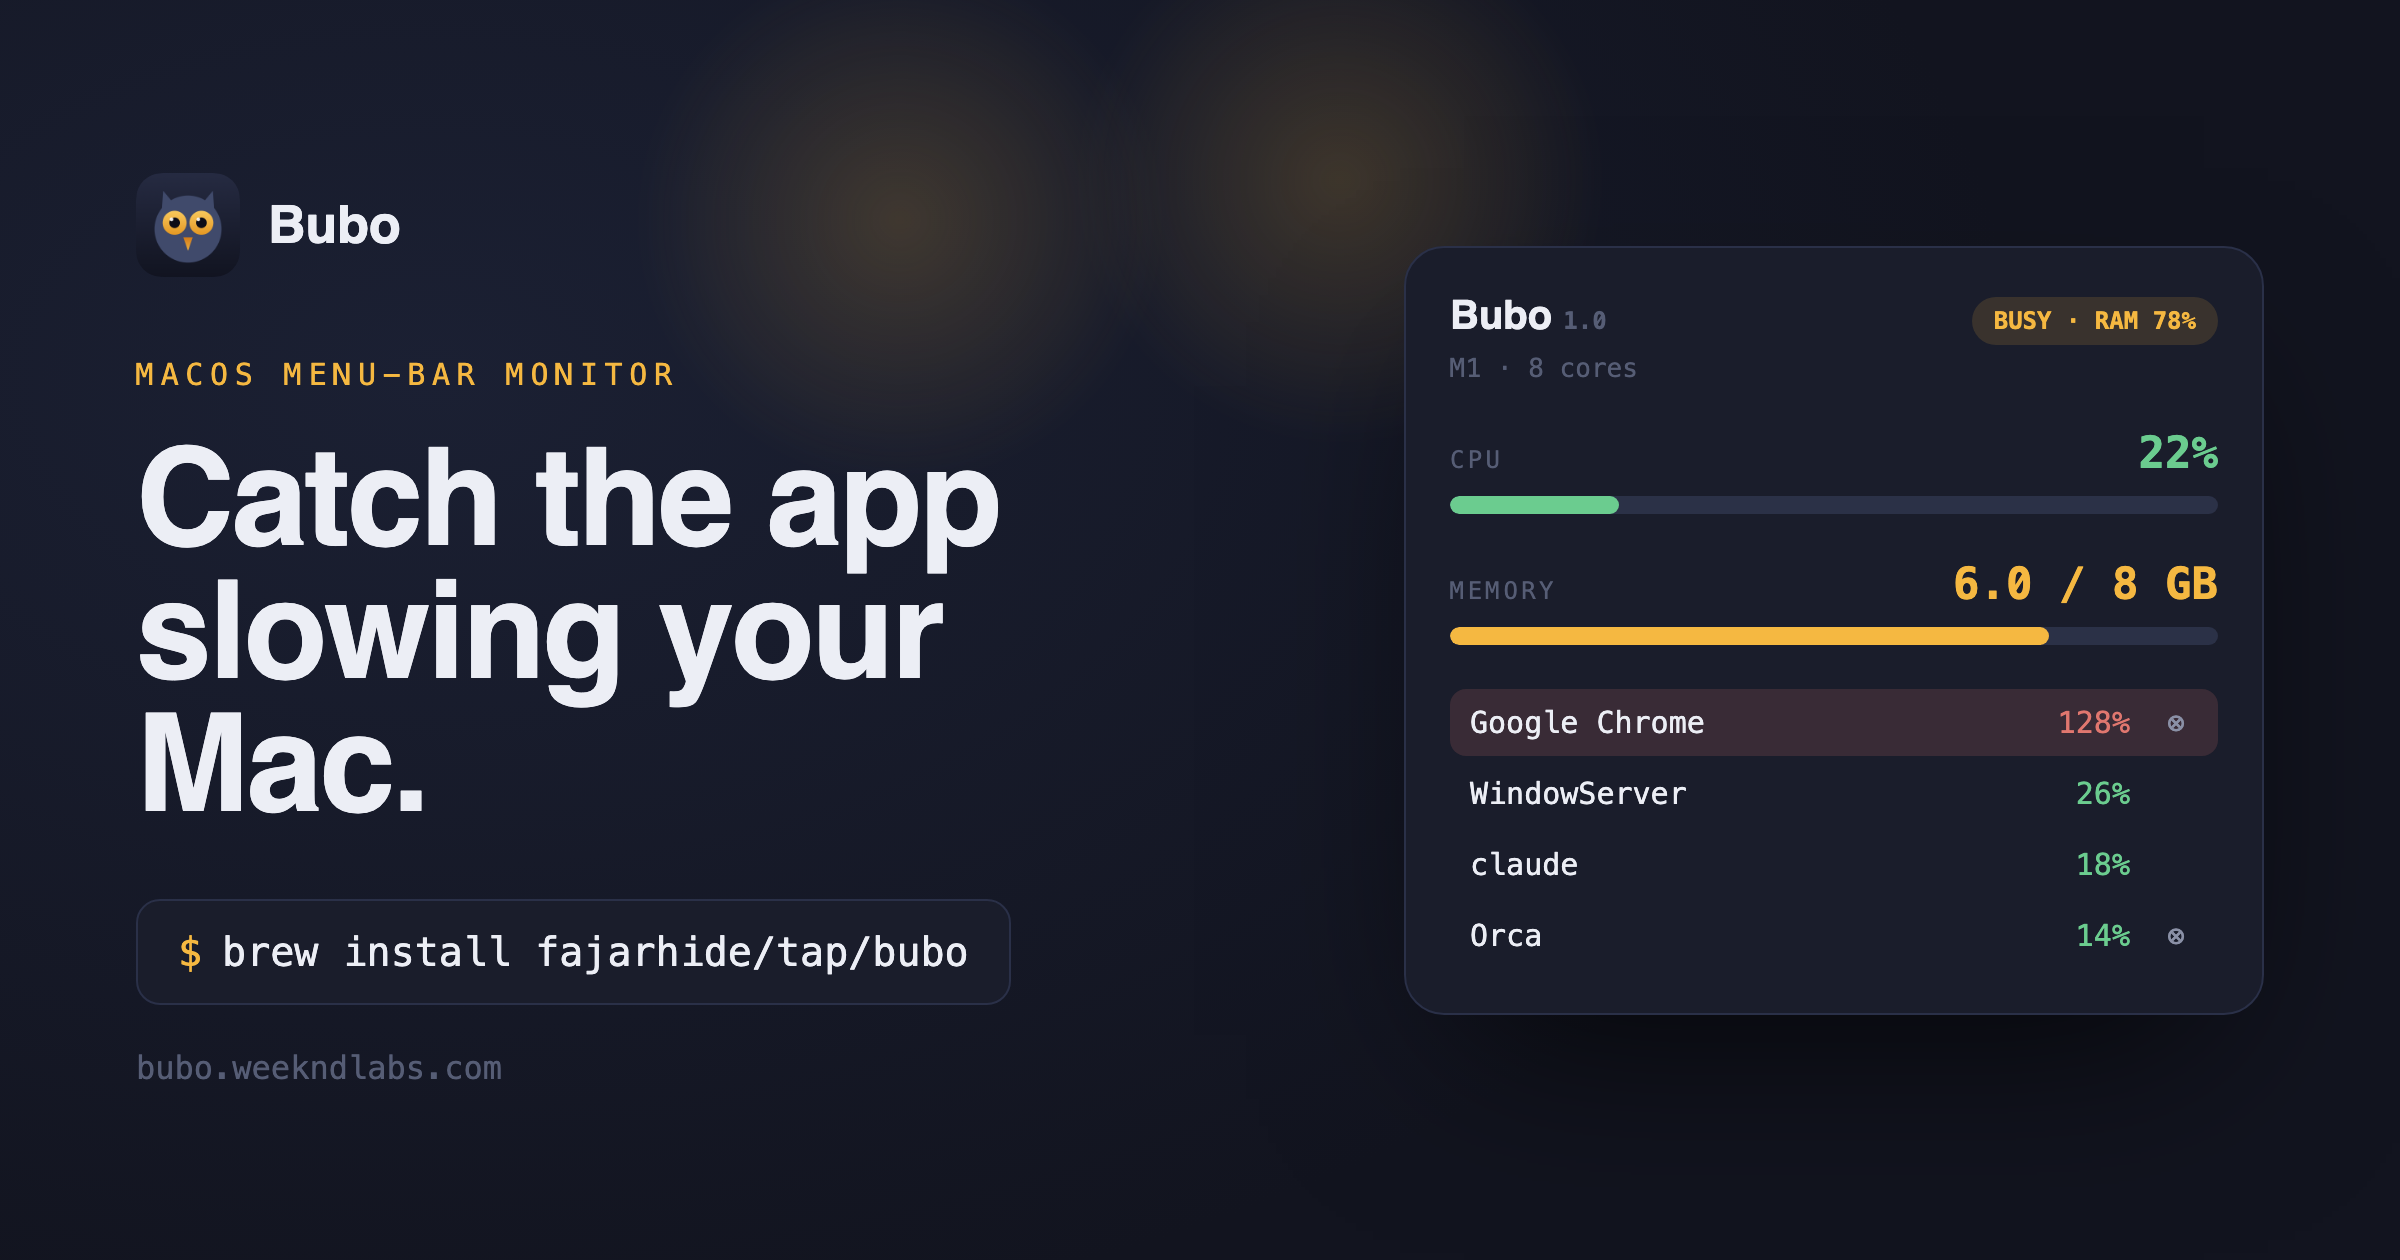
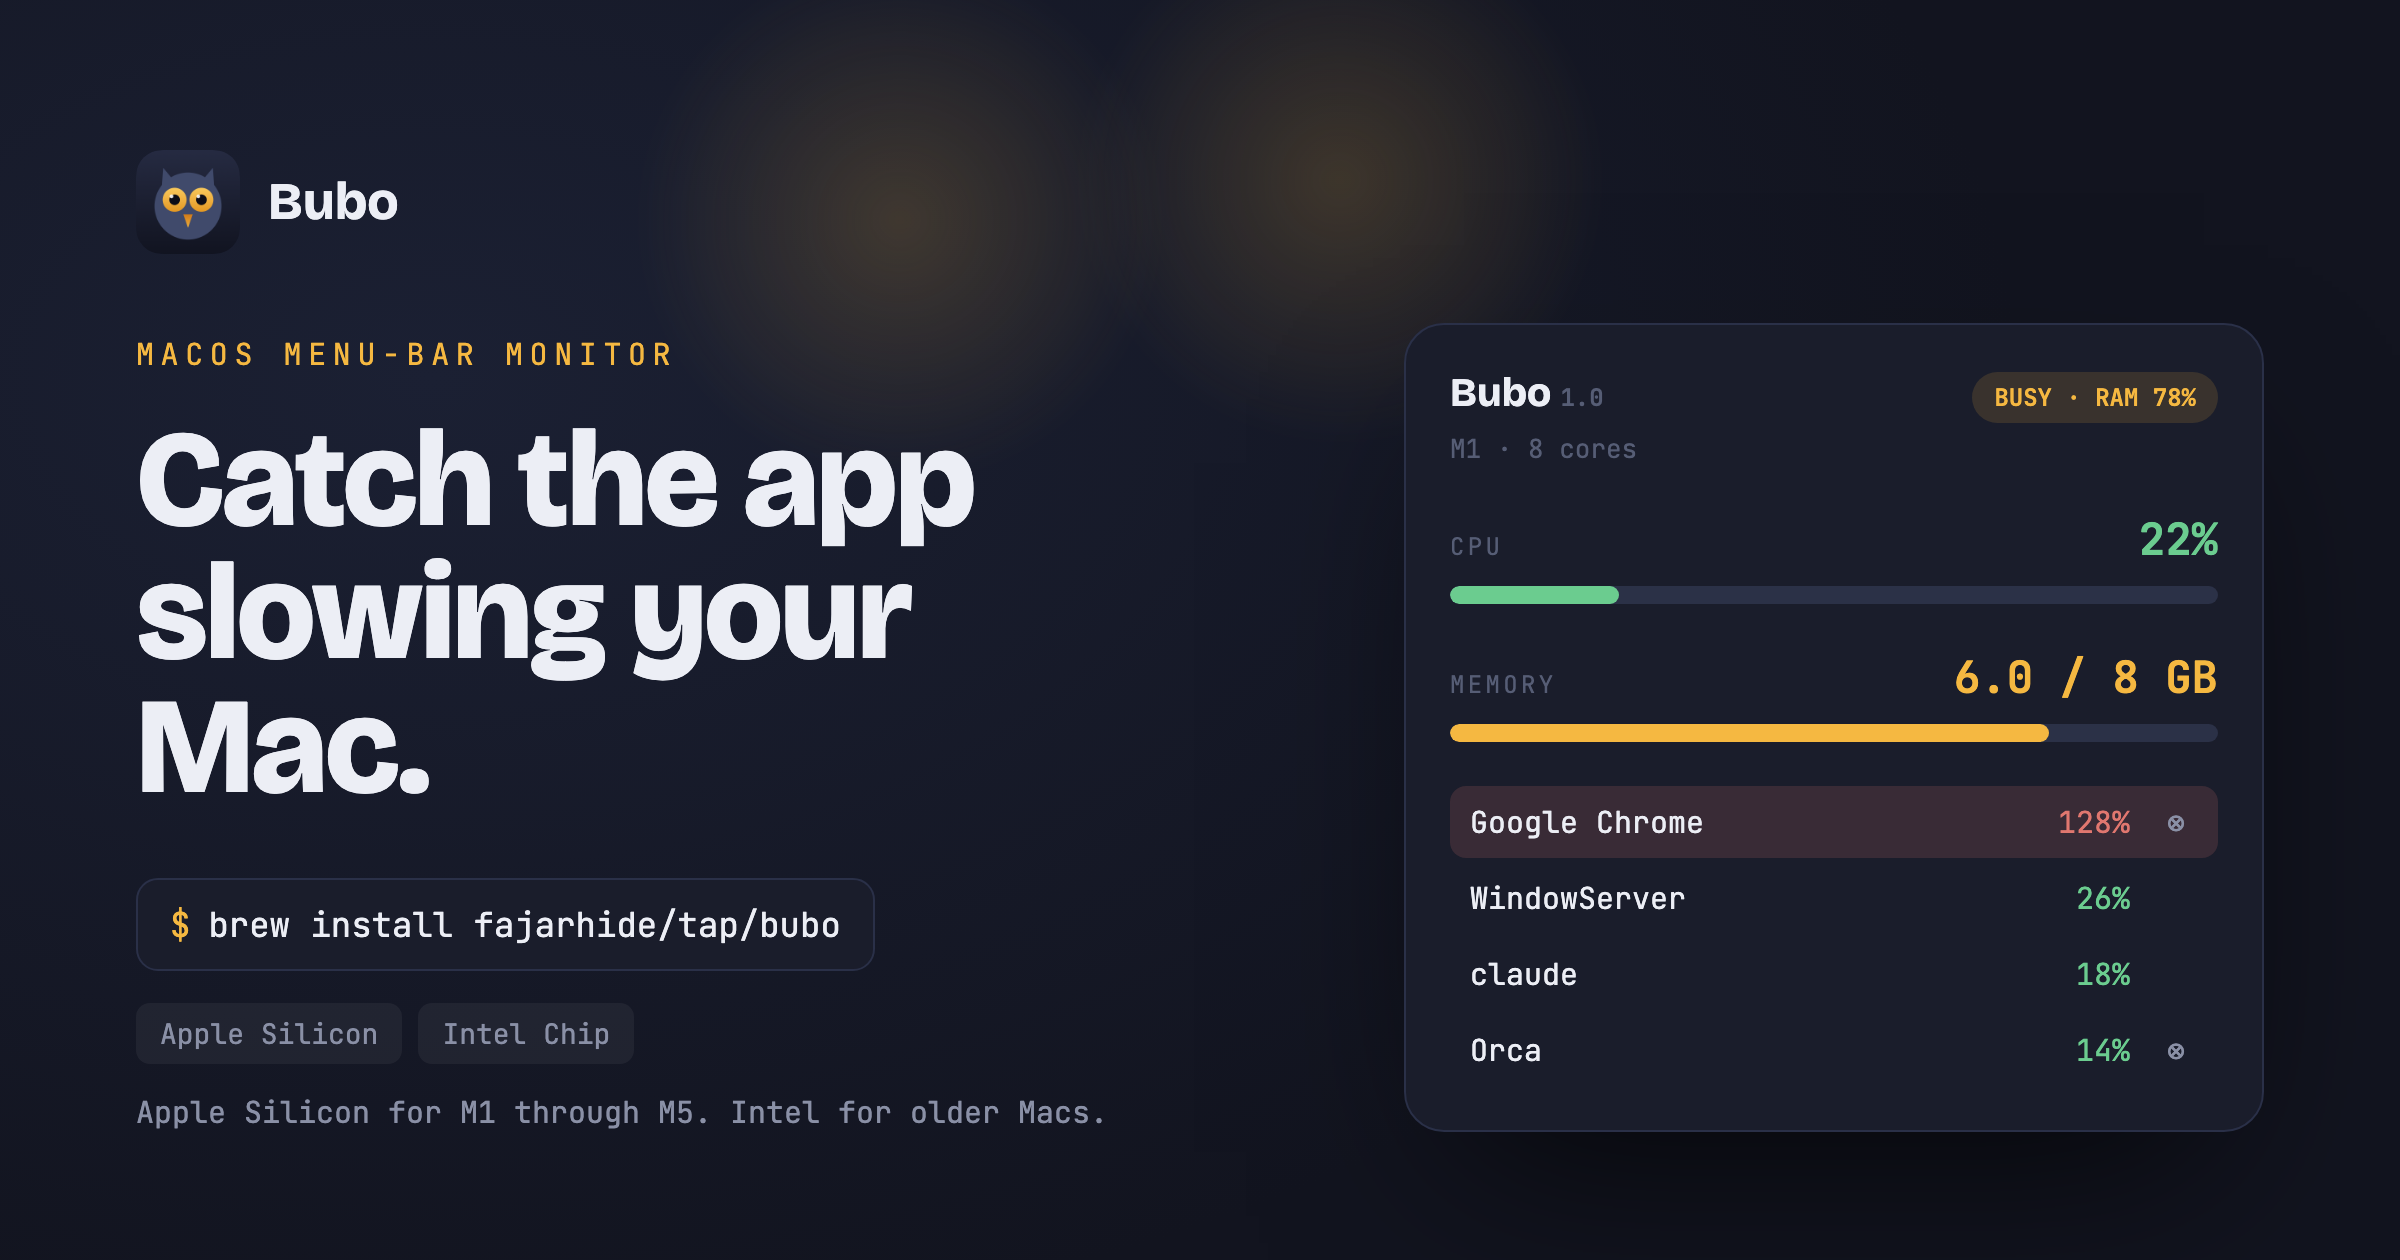
seo+og: advertise Apple Silicon and Intel support
- meta/OG/Twitter descriptions now say native on Apple Silicon and Intel
- add the missing canonical link
- OG card: arch info chips (not buttons), compact brew box, drop the URL,
  bottom-align the panel with the left column; regenerate og.png

diff --git a/og/template.html b/og/template.html
@@ -19,8 +19,8 @@
   body {
     background: radial-gradient(120% 140% at 18% 30%, #1b2033 0%, var(--night) 55%);
     color: var(--text); font-family: var(--display); overflow: hidden;
-    display: grid; grid-template-columns: 1fr 430px; align-items: center;
-    padding: 68px; position: relative;
+    display: grid; grid-template-columns: 1fr 430px; align-items: end; gap: 60px;
+    padding: 64px 68px; position: relative;
   }
   /* the owl's eyes, watching from the dark */
   .eye { position: absolute; width: 300px; height: 300px; border-radius: 50%;
@@ -34,11 +34,14 @@
   .eyebrow { font-family: var(--mono); font-size: 15px; letter-spacing: 0.22em;
     text-transform: uppercase; color: var(--amber); margin-bottom: 20px; }
   h1 { font-size: 68px; line-height: 0.98; font-weight: 800; letter-spacing: -0.02em; max-width: 12ch; }
-  .cmd { margin-top: 34px; font-family: var(--mono); font-size: 20px;
-    display: inline-flex; align-items: center; gap: 10px;
-    background: var(--night-2); border: 1px solid var(--line); border-radius: 12px; padding: 14px 20px; }
+  .cmd { margin-top: 32px; font-family: var(--mono); font-size: 17px;
+    display: inline-flex; align-items: center; gap: 9px;
+    background: var(--night-2); border: 1px solid var(--line); border-radius: 11px; padding: 11px 16px; }
   .cmd .p { color: var(--amber); }
-  .url { margin-top: 22px; font-family: var(--mono); font-size: 16px; color: var(--faint); }
+  .dl { margin-top: 16px; display: flex; gap: 8px; font-family: var(--mono); font-size: 14px; }
+  .pill { background: rgba(255,255,255,0.055); border-radius: 7px; padding: 6px 12px; color: var(--muted); }
+  .hint { margin-top: 14px; font-family: var(--mono); font-size: 15px; color: var(--muted); }
+  .url { margin-top: 18px; font-family: var(--mono); font-size: 16px; color: var(--faint); }
 
   /* the panel snippet: the culprit caught red-handed */
   .panel { position: relative; z-index: 2; background: var(--night-2);
@@ -75,7 +78,8 @@
     <div class="eyebrow">macOS menu-bar monitor</div>
     <h1>Catch the app slowing your Mac.</h1>
     <div class="cmd"><span class="p">$</span> brew install fajarhide/tap/bubo</div>
-    <div class="url">bubo.weekndlabs.com</div>
+    <div class="dl"><span class="pill">Apple Silicon</span><span class="pill">Intel Chip</span></div>
+    <div class="hint">Apple Silicon for M1 through M5. Intel for older Macs.</div>
   </div>
 
   <div class="panel">
